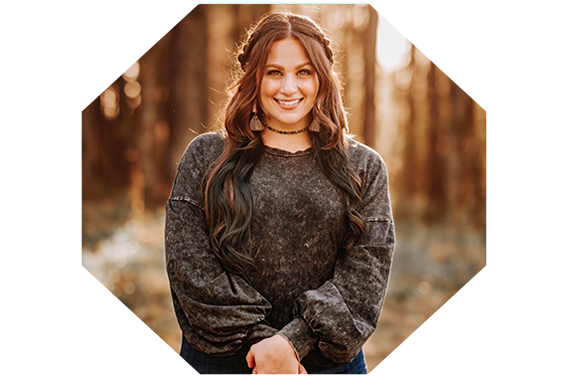
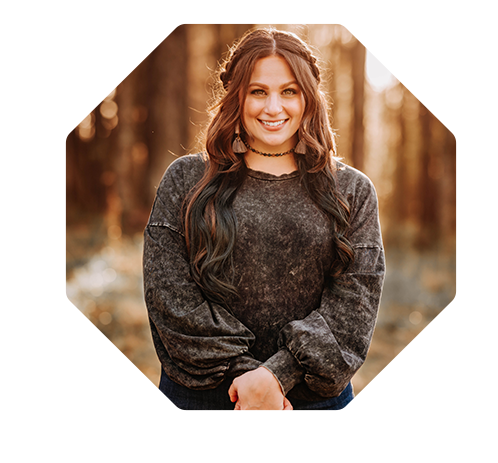
Updated the UI

diff --git a/index.html b/index.html
@@ -14,6 +14,7 @@
 
   <link rel="manifest" href="site.webmanifest">
   <link rel="apple-touch-icon" href="icon.png">
+  <script src="https://kit.fontawesome.com/a7717ad5f3.js" crossorigin="anonymous"></script>
   <!-- Place favicon.ico in the root directory -->
 
   <link rel="stylesheet" href="css/normalize.css">
@@ -38,58 +39,63 @@
 
 
   <header>
-    <div class="header-content-wrapper">
-      <div class="blue-box">
-        <h1>Maggie McDonald</h1>
-
-        <div class="intro-flex-container">
-          <div class="figure">
-            <figure>
-              <a href="#"><img src="img\profile-pic.png" alt="maggie"></a>
-            </figure>
-          </div>
-
-
-          <div>
-            <h2>Hi! I'm a Front End
-              <br>Web Developer
-              <br>in Georgia.
-            </h2>
-          </div>
-
-
-          <div>
-            <nav>
-              <button>Menu</button>
-              <!--will code hamburger menu later-->
-            </nav>
-          </div>
+    <section id="header">
+      <h1>Maggie McDonald</h1>
+      <div class="topnav">
+        <!-- Navigation links (hidden by default) -->
+        <div id="myLinks">
+          <!--put your resume here-->
+          <a href="https://drive.google.com/file/d/1KFT2SSki1rvDKGvvzIFngjWX_bOZX9EX/view?usp=share_link"
+            target="_blank">Resume</a>
+          <a href="#about">About</a>
+          <a href="#skills">Skills</a>
+          <a href="#projects">Projects</a>
+          <a href="#contact">Contact</a>
         </div>
-
-      </div>
+        <!-- "Hamburger menu" / "Bar icon" to toggle the navigation links -->
+        <a href="javascript:void(0);" class="icon" onclick="myFunction()">
+          <i class="fa fa-bars"></i>
+        </a>
 
   </header>
+  <div class="header-content-wrapper">
+    <div class="intro-flex-container">
+      <div class="figure">
+        <figure>
+          <a href="#"><img src="img\profile-pic.png" alt="maggie"></a>
+        </figure>
+      </div>
 
-  <aside>
-    <div class="blue-skills-box">
-      <h2>Skills:</h2>
-      <div class="skills-flex-container">
-        <div>1</div>
-        <div>2</div>
-        <div>3</div>
-        <div>4</div>
-        <div>5</div>
+      <div>
+        <h2>Hi! I'm a Front End <br>Web Developer <br>in Georgia.
+        </h2>
       </div>
     </div>
-    </div>
-  </aside>
 
+    <section id="skills">
+      <div class="skills-section">
+        <h3 class="skill-title">Skills:</h3>
+        <p class="skills-list">
+          HTML5 | CSS3 | JavaScript | React.js | Flexbox & CSS Grid | JSX | ES6 | Git |
+          Version Control | APIs | Managing data flow | Media queries | Responsive typography
+        </p>
+      </div>
+      <div class="skills-section">
+        <h3 class="skill-title">Tools:</h3>
+        <p class="skills-list">
+          Visual Studio Code | Code Sandbox | Chrome DevTools | Github | Photoshop
+        </p>
+      </div>
+  </div>
+  </section>
+  </section>
   <!--Project Section-->
   <main>
-    <div class="project-flex-container">
+    <section id="projects">
       <div class="project-container">
-        <h2>Project: Guess The Word Game</h2>
+        <h3>Project: Guess The Word Game</h3>
         <div class="live-version">
+          <a href="#"><img src="img/guess-the-word.png" alt="guess-the-word-game"></a>
           <!--this is where I would like to place a live version of the repo-->
         </div>
         <div class="project-info">
@@ -103,8 +109,9 @@
       </div>
 
       <div class="project-container">
-        <h2>Project: Super Sticky Notes</h2>
+        <h3>Project: Super Sticky Notes</h3>
         <div class="live-version">
+          <a href="#"><img src="img/sitcky-note-app.png" alt="sticky-note-app"></a>
           <!--this is where I would like to place a live version of the repo-->
         </div>
         <div class="project-info">
@@ -118,8 +125,9 @@
 
 
       <div class="project-container">
-        <h2>Project: Github Repo Gallery</h2>
+        <h3>Project: Github Repo Gallery</h3>
         <div class="live-version">
+          <a href="#"><img src="img/github-repo-gallery.png" alt="github-repo-gallery"></a>
           <!--this is where I would like to place a live version of the repo-->
         </div>
         <div class="project-info">
@@ -130,51 +138,49 @@
           <button>Github Repo</button> <!--would like to use github icon-->
         </div>
       </div>
-    </div>
-    </div>
-
-    <section class="about-me">
-      <div class="content-wrapper">
-        <!--logo img goes here-->
-        <h2>About Me:</h2>
-        <p>Hi there! I'm Maggie and I love development because I have an eternal quest of learning how to make things
-          work efficiently with responsiveness and accessibility in mind! As a former Special Educator, I excel in
-          managing chaos and complex problem solving with a positive attitude.
-
-          If I’m not coding or spending time with my husband, daughter and three golden retrievers, you can find me
-          trying to figure out how to renovate something else in our family’s home.
-
-          I'd love to take my next click into the coding world with you!</p>
       </div>
+    </section>
 
+    <section class="about">
+      <div class="about-me-content-wrapper">
+        <div class="logo">
+          <!--logo img goes here-->
+        </div>
+        <div class="about">
+          <h3>About Me:</h3>
+          <p>Hi there! I'm Maggie and I love development because I have an eternal quest of learning how to make things
+            work efficiently with responsiveness and accessibility in mind! As a former Special Educator, I excel in
+            managing chaos and complex problem solving with a positive attitude.
+
+            If I’m not coding or spending time with my husband, daughter and three golden retrievers, you can find me
+            trying to figure out how to renovate something else in our family’s home.
+
+            I'd love to take my next <span>click</span> into the coding world with you!</p>
+        </div>
+      </div>
     </section>
 
     <footer>
-      <section class="contact-me">
-        <h2>Contact Me:</h2>
-        <div class="hire-me">
-          <h3>Hire Me:</h3>
-          <ul>
-            <li>hamaggie25@gmail.com</li>
-            <li>678-953-0470</li>
-          </ul>
+      <div class="footer-content-wrapper">
+        <section class="contact-me">
+          <h3>Contact Me:</h3>
+          <p>hamaggie25@gmail.com</p>
+          <p>678-953-0470</p>
+          <p>
+            <a href="https://github.com/maggie-mcdonald" target="_blank"><i class="fa-brands fa-github"></i></a>
+          </p>
+          <p>
+            <a href="https://www.linkedin.com/in/maggie-mcdonald/" target="_blank"><i
+                class="fa-brands fa-linkedin"></i></a>
+          </p>
+        </section>
+
+        <div class="footnote">
+          <p>Portfolio 2023 | Maggie McDonald</p>
         </div>
 
-        <div class="follow-me">
-          <h3>Follow Me:</h3>
-          <ul>
-            <!--fix these. You need to download the .png for linkin and github logo-->
-            <li>hamaggie25@gmail.com</li>
-            <li>678-953-0470</li>
-          </ul>
-        </div>
-      </section>
-
-      <div class="footnote">
-        <p>Portfolio 2023 | Maggie McDonald</p>
-      </div>
     </footer>
-
+    </div>
   </main>
 
 

diff --git a/css/main.css b/css/main.css
@@ -103,53 +103,40 @@ img {
   max-width: 100%;
 }
 
-ul,
-ol {
-  list-style-type: none;
-  margin: 0;
-  padding: 0;
-}
 
 h1 {
   font-family: "Century Schoolbook";
-  background-color: #2a9d8f;
   font-size: 4em;
+  text-align: left;
 }
 
 h2 {
   font-family: "Century Schoolbook";
-  background-color: #2a9d8f;
-  font-size: 1.5em;
+  font-size: 2em;
+
 }
 
+h3 {
+  font-family: "Century Schoolbook";
+  background-color: #3f8c84;
+  font-size: 1.75em;
+}
 /*------ Base Header Styles-------*/
-
-
 
 header {
   display: flex;
   flex-flow: column;
-  background-color: #2a9d8f;
+  background-color: #3f8c84 ;
   background-size: cover;
 }
 
-.blue-box {
-  background-color: #2a9d8f;
-}
-
-.figure {
-  max-width: 26em;
-  max-height: 23.5em; 
-}
 .header-content-wrapper {
   background-image: url(../img/code-mountain-color-scheme.png);
-  background-color: #2a9d8f;
   background-size: cover;
   background-repeat: round;
-  border: .5em, #fff;
-  padding: 4em;
+  padding: 3em;
   display: flex;
-  align-items: center;
+  flex-direction: column;
 
 }
 
@@ -160,35 +147,88 @@ header {
 
 
 .skills-flex-container {
+  padding: 4em;
   height: auto;
   width: auto;
   display: flex;
   flex-flow: row wrap;
 }
 
+.topnav {
+  overflow: hidden;
+  background-color: #bca162;
+  position: relative;
+}
+
+.topnav #myLinks {
+  display: none;
+}
+
+.topnav a {
+  float: left;
+  background-color: #b96852;
+  padding: 1em;
+  text-decoration: none;
+  font-size: 1em;
+}
+
+.topnav a.icon {
+  float: right;
+
+}
+
+.topnav a:hover {
+  background-color: #c98e5f;
+  color: #3a474e;
+}
+
 /*--aside with skills--*/
 
-.blue-skills-box {
-  background-color: #2a9d8f;
+#skills {
+  background-color: #408479;
+  margin: 1em;
+  padding: 1em;
+  display: flex;
+  justify-content: space-evenly;
 }
 
-
+skills-section
 /*----project section  ----*/
 
-.project-flex-container {
+#projects {
   background: #3a474e;
+  padding: 2em;
+}
+
+.project-container {
+  background: #3a474e;
+  padding: 2em;
 }
 
 
+/*--about me section--*/
 
 
+.about-me-content-wrapper {
+  background: #b96852;
+  padding: 2em;
+}
+.about {
+  background: #3a474e;
+  padding: 2em;
+}
+
+.black {
+  margin: 4 em;
+}
 
 
+/*--footer-contact me section--*/
 
-
-
-
-
+.footer-content-wrapper {
+  background: #bca162;
+  padding: 2em;
+}
 
 
 /*
